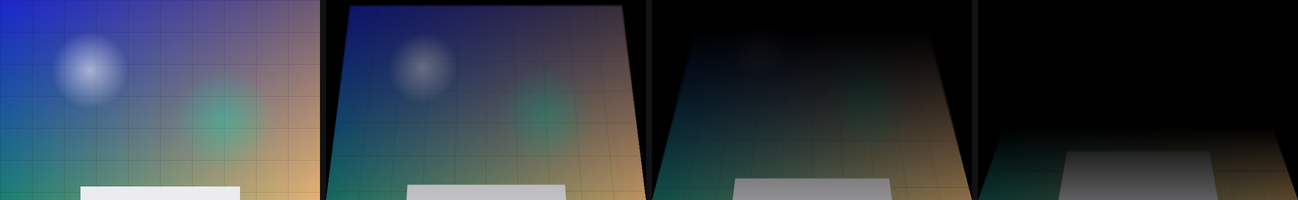
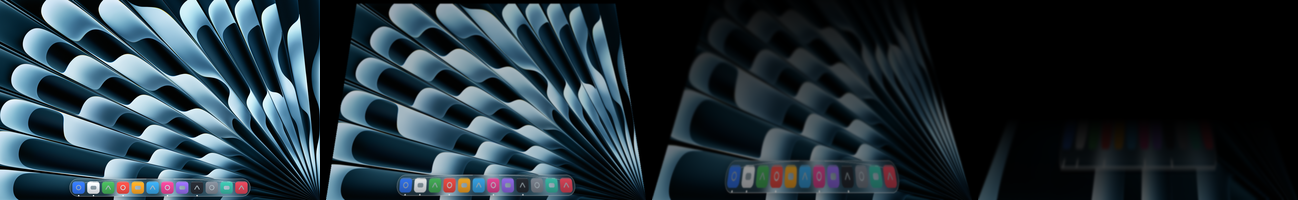
Give the blur a floor at the hinge
Darkening already held a floor of 0.35 at the hinge while the blur radius
started from zero there, so the band on the rotation axis went dark but
stayed perfectly sharp. On a 1964 px panel at 0.48 progress that band
carried 0.8 px of blur against 36 percent darkening, which is why the Dock
barely moved while the rest of the desktop frosted.

blurFloor keeps 30 percent of the maximum radius at the hinge and leaves
the far edge alone: the Dock now gets 5.7 px. Applied in the reference
renderer, the reference shader and all three ports, with the Metal and
HLSL uniform blocks reusing their existing pad slot so the layout is
unchanged.

Goldens regenerated; the fixtures are untouched because the motion model
did not move. The Metal render check scores 35.7 to 49.3 dB.

Also adds tools/make_demo.py, which rebuilds the two README images from
core/reference so they cannot drift from effect.json, and points it at a
desktop with the Dock so the change is visible.

diff --git a/macos/Sources/HingewaveCore/EffectConfig.swift b/macos/Sources/HingewaveCore/EffectConfig.swift
@@ -46,6 +46,7 @@ public struct EffectConfig: Codable, Equatable {
 
     public var eyeDistance: Double
     public var maxBlur: Double
+    public var blurFloor: Double
     public var darkenGain: Double
     public var springHz: Double
     public var stillSeconds: Double
@@ -53,10 +54,12 @@ public struct EffectConfig: Codable, Equatable {
     public var laptop: Laptop
     public var phone: Phone
 
-    public init(eyeDistance: Double, maxBlur: Double, darkenGain: Double, springHz: Double,
-                stillSeconds: Double, clearSeconds: Double, laptop: Laptop, phone: Phone) {
+    public init(eyeDistance: Double, maxBlur: Double, blurFloor: Double, darkenGain: Double,
+                springHz: Double, stillSeconds: Double, clearSeconds: Double,
+                laptop: Laptop, phone: Phone) {
         self.eyeDistance = eyeDistance
         self.maxBlur = maxBlur
+        self.blurFloor = blurFloor
         self.darkenGain = darkenGain
         self.springHz = springHz
         self.stillSeconds = stillSeconds
@@ -69,6 +72,7 @@ public struct EffectConfig: Codable, Equatable {
     public static let defaults = EffectConfig(
         eyeDistance: 2.0,
         maxBlur: 0.036,
+        blurFloor: 0.3,
         darkenGain: 2.0,
         springHz: 6.0,
         stillSeconds: 2.0,

diff --git a/android/app/src/main/java/com/antlib/hingewave/render/FoldShader.kt b/android/app/src/main/java/com/antlib/hingewave/render/FoldShader.kt
@@ -27,6 +27,7 @@ object FoldShader {
         uniform float progress;       // 0 open, 1 folded
         uniform float eyeDistance;    // panel heights
         uniform float maxBlurPx;      // maxBlur * panel extent perpendicular to the hinge
+        uniform float blurFloor;      // blur kept at the hinge, 0..1
         uniform float darkenGain;
         uniform int hingeEdge;        // 0 bottom, 1 left, 2 right, 3 top
         uniform float2 region;        // [start, end] of the folding band along the hinge axis, in 0..1 of size
@@ -78,7 +79,7 @@ object FoldShader {
             else                     { m = float2(v2, uf); }
             float2 p = m * picSize;
 
-            float r = maxBlurPx * progress * ub;
+            float r = maxBlurPx * progress * (blurFloor + (1.0 - blurFloor) * ub);
             float lod = log2(max(r * 1.4, 1.0));
             float o = r * 0.6;
             half4 c = samplePyramid(p, lod) * 0.4;

diff --git a/macos/Sources/Hingewave/FoldShader.swift b/macos/Sources/Hingewave/FoldShader.swift
@@ -9,7 +9,7 @@ struct FoldUniforms {
     var eyeDistance: Float   // panel heights
     var maxBlurPx: Float     // effect maxBlur * panel height in pixels
     var darkenGain: Float
-    var pad0: Float = 0
+    var blurFloor: Float   // effect blurFloor, blur kept at the hinge
     var texSize: SIMD2<Float>
 }
 
@@ -26,7 +26,7 @@ enum FoldShader {
         float eyeDistance;
         float maxBlurPx;
         float darkenGain;
-        float pad0;
+        float blurFloor;
         float2 texSize;
     };
 
@@ -62,7 +62,7 @@ enum FoldShader {
         }
 
         // Section 2.3: blur radius grows from the hinge outward. Mip chain plus a small disc.
-        float r = U.maxBlurPx * U.progress * u;
+        float r = U.maxBlurPx * U.progress * (U.blurFloor + (1.0 - U.blurFloor) * u);
         float lod = log2(max(r * 1.4, 1.0));
         float2 p = float2(v2, 1.0 - u2);
         float2 o = (r * 0.6) / U.texSize;

diff --git a/android/app/src/main/java/com/antlib/hingewave/core/EffectConfig.kt b/android/app/src/main/java/com/antlib/hingewave/core/EffectConfig.kt
@@ -23,6 +23,7 @@ data class SplashConfig(
 data class EffectConfig(
     val eyeDistance: Double,
     val maxBlur: Double,
+    val blurFloor: Double,
     val darkenGain: Double,
     val springHz: Double,
     val stillSeconds: Double,
@@ -36,6 +37,7 @@ data class EffectConfig(
         val DEFAULTS = EffectConfig(
             eyeDistance = 2.0,
             maxBlur = 0.036,
+            blurFloor = 0.3,
             darkenGain = 2.0,
             springHz = 6.0,
             stillSeconds = 2.0,
@@ -66,6 +68,7 @@ data class EffectConfig(
             return EffectConfig(
                 eyeDistance = o.getDouble("eyeDistance"),
                 maxBlur = o.getDouble("maxBlur"),
+                blurFloor = o.getDouble("blurFloor"),
                 darkenGain = o.getDouble("darkenGain"),
                 springHz = o.getDouble("springHz"),
                 stillSeconds = o.getDouble("stillSeconds"),

diff --git a/android/app/src/main/java/com/antlib/hingewave/render/FoldPainter.kt b/android/app/src/main/java/com/antlib/hingewave/render/FoldPainter.kt
@@ -52,6 +52,7 @@ class FoldPainter(picture: Bitmap, private val config: EffectConfig = EffectConf
         shader.setFloatUniform("tilt", Math.toRadians(tiltDegrees).toFloat())
         shader.setFloatUniform("progress", progress.toFloat())
         shader.setFloatUniform("maxBlurPx", (config.maxBlur * perpendicularPx).toFloat())
+        shader.setFloatUniform("blurFloor", config.blurFloor.toFloat())
         shader.setIntUniform("hingeEdge", geometry.hingeEdge)
         shader.setFloatUniform("region", geometry.regionStart, geometry.regionEnd)
         canvas.drawRect(0f, 0f, width.toFloat(), height.toFloat(), paint)

diff --git a/macos/Sources/Hingewave/FoldRenderer.swift b/macos/Sources/Hingewave/FoldRenderer.swift
@@ -79,6 +79,7 @@ final class FoldRenderer {
             eyeDistance: Float(config.eyeDistance),
             maxBlurPx: Float(config.maxBlur * Double(target.height)),
             darkenGain: Float(config.darkenGain),
+            blurFloor: Float(config.blurFloor),
             texSize: SIMD2<Float>(Float(source.width), Float(source.height))
         )
         enc.setRenderPipelineState(pipeline)

diff --git a/tools/make_demo.py b/tools/make_demo.py
@@ -1,0 +1,130 @@
+#!/usr/bin/env python3
+"""Render the README demo assets through the reference implementation.
+
+    python3 tools/make_demo.py --desktop path/to/desktop.png
+
+Writes docs/assets/fold-demo.gif (a close and reopen at 12.5 frames a second)
+and docs/assets/fold-frames.png (the same desktop at four lid angles). The
+desktop picture is supplied on the command line rather than committed, so the
+repository carries no wallpaper artwork.
+
+Both assets come from core/reference, so they always show the effect as
+core/effect.json currently defines it. Regenerate them after changing it.
+"""
+from __future__ import annotations
+
+import argparse
+import sys
+from pathlib import Path
+
+import numpy as np
+from PIL import Image
+
+ROOT = Path(__file__).resolve().parent.parent
+sys.path.insert(0, str(ROOT / "core" / "reference"))
+
+from hingewave_ref.config import load_config  # noqa: E402
+from hingewave_ref.motion import LaptopMotionModel  # noqa: E402
+from hingewave_ref.render import from_uint8, render, to_uint8  # noqa: E402
+
+GIF_SIZE = (520, 325)
+PANEL_SIZE = (320, 200)
+PANEL_GAP = 6
+STRIP_ANGLES = [105.0, 82.0, 58.0, 35.0]
+REST_ANGLE = 105.0
+STEP = 0.02          # seconds between model updates
+FRAME_EVERY = 4      # every fourth update becomes a GIF frame, so 80 ms
+FIRST_HOLD_MS = 660
+LAST_HOLD_MS = 240
+
+
+def load_desktop(path: Path, size: tuple[int, int]) -> np.ndarray:
+    img = Image.open(path).convert("RGB")
+    target = size[0] / size[1]
+    w, h = img.size
+    if w / h > target:                      # too wide, trim the sides
+        new_w = int(round(h * target))
+        img = img.crop(((w - new_w) // 2, 0, (w - new_w) // 2 + new_w, h))
+    else:                                   # too tall, trim the top
+        new_h = int(round(w / target))
+        img = img.crop((0, h - new_h, w, h))
+    return from_uint8(np.asarray(img.resize(size, Image.LANCZOS)))
+
+
+def angle_track() -> list[float]:
+    """Rest at 105, close to 10 over 1.1 s, pause, reopen, rest again."""
+    track: list[float] = []
+
+    def hold(seconds: float, angle: float) -> None:
+        track.extend([angle] * int(round(seconds / STEP)))
+
+    def sweep(seconds: float, start: float, end: float) -> None:
+        n = int(round(seconds / STEP))
+        track.extend(start + (end - start) * (i + 1) / n for i in range(n))
+
+    hold(0.4, REST_ANGLE)
+    sweep(1.1, REST_ANGLE, 10.0)
+    hold(0.24, 10.0)
+    sweep(1.0, 10.0, REST_ANGLE)
+    hold(0.4, REST_ANGLE)
+    return track
+
+
+def make_gif(desktop: np.ndarray, out: Path) -> None:
+    cfg = load_config()
+    model = LaptopMotionModel(cfg)
+    frames: list[Image.Image] = []
+    for i, angle in enumerate(angle_track()):
+        out_state = model.feed(i * STEP, angle)
+        if out_state.state == "armed":
+            model.capture_ready(i * STEP)
+        if i % FRAME_EVERY:
+            continue
+        pic = render(desktop, out_state.tilt, out_state.progress, cfg)
+        frames.append(Image.fromarray(to_uint8(pic)))
+
+    durations = [80] * len(frames)
+    durations[0] = FIRST_HOLD_MS
+    durations[-1] = LAST_HOLD_MS
+    frames[0].save(
+        out,
+        save_all=True,
+        append_images=frames[1:],
+        duration=durations,
+        loop=0,
+        optimize=True,
+    )
+    print(f"wrote {out} ({len(frames)} frames)")
+
+
+def make_strip(desktop_full: np.ndarray, out: Path) -> None:
+    cfg = load_config()
+    panels = []
+    for angle in STRIP_ANGLES:
+        tilt = max(0.0, REST_ANGLE - angle)
+        span = max(REST_ANGLE - cfg.laptop.end_angle, 1e-6)
+        x = min(max(tilt / span, 0.0), 1.0)
+        progress = x * x * (3.0 - 2.0 * x)
+        pic = render(desktop_full, tilt, progress, cfg)
+        panels.append(Image.fromarray(to_uint8(pic)).resize(PANEL_SIZE, Image.LANCZOS))
+
+    w = PANEL_SIZE[0] * len(panels) + PANEL_GAP * (len(panels) - 1)
+    strip = Image.new("RGB", (w, PANEL_SIZE[1]), (0, 0, 0))
+    for i, panel in enumerate(panels):
+        strip.paste(panel, (i * (PANEL_SIZE[0] + PANEL_GAP), 0))
+    strip.save(out)
+    print(f"wrote {out} (angles {', '.join(f'{a:g}' for a in STRIP_ANGLES)} degrees)")
+
+
+def main() -> None:
+    ap = argparse.ArgumentParser()
+    ap.add_argument("--desktop", required=True, type=Path, help="desktop picture to fold")
+    ap.add_argument("--out", type=Path, default=ROOT / "docs" / "assets")
+    args = ap.parse_args()
+
+    make_gif(load_desktop(args.desktop, GIF_SIZE), args.out / "fold-demo.gif")
+    make_strip(load_desktop(args.desktop, (960, 600)), args.out / "fold-frames.png")
+
+
+if __name__ == "__main__":
+    main()

diff --git a/windows/Hingewave.Core/EffectConfig.cs b/windows/Hingewave.Core/EffectConfig.cs
@@ -7,6 +7,7 @@ namespace Hingewave.Core;
 public sealed record EffectConfig(
     [property: JsonPropertyName("eyeDistance")] double EyeDistance,
     [property: JsonPropertyName("maxBlur")] double MaxBlur,
+    [property: JsonPropertyName("blurFloor")] double BlurFloor,
     [property: JsonPropertyName("darkenGain")] double DarkenGain,
     [property: JsonPropertyName("springHz")] double SpringHz,
     [property: JsonPropertyName("stillSeconds")] double StillSeconds,
@@ -18,6 +19,7 @@ public sealed record EffectConfig(
     public static readonly EffectConfig Defaults = new(
         EyeDistance: 2.0,
         MaxBlur: 0.036,
+        BlurFloor: 0.3,
         DarkenGain: 2.0,
         SpringHz: 6.0,
         StillSeconds: 2.0,

diff --git a/windows/Hingewave.App/Render/FoldRenderer.cs b/windows/Hingewave.App/Render/FoldRenderer.cs
@@ -17,7 +17,7 @@ internal struct FoldUniforms
     public float EyeDistance;
     public float MaxBlurPx;
     public float DarkenGain;
-    public float Pad0;
+    public float BlurFloor;
     public float TexWidth;
     public float TexHeight;
 }
@@ -94,6 +94,7 @@ public sealed class FoldRenderer : IDisposable
             EyeDistance = (float)Config.EyeDistance,
             MaxBlurPx = (float)(Config.MaxBlur * targetHeight),
             DarkenGain = (float)Config.DarkenGain,
+            BlurFloor = (float)Config.BlurFloor,
             TexWidth = desc.Width,
             TexHeight = desc.Height,
         };

diff --git a/core/reference/hingewave_ref/render.py b/core/reference/hingewave_ref/render.py
@@ -97,7 +97,9 @@ def render(img: np.ndarray, tilt_deg: float, progress: float, cfg: Config) -> np
     u, _ = panel_coords(h, w)
     warped = perspective_warp(img, tilt_deg, cfg)
     max_r = cfg.max_blur * h
-    radius = max_r * progress * u
+    # Blur has a floor at the hinge so the panel frosts as one, rather than going
+    # dark while staying razor sharp on the rotation axis (docs/design.md 2.3).
+    radius = max_r * progress * (cfg.blur_floor + (1.0 - cfg.blur_floor) * u)
     blurred = variable_blur(warped, radius, max_r)
     return np.clip(darken(blurred, progress, u, cfg.darken_gain), 0.0, 1.0)
 

diff --git a/core/reference/hingewave_ref/config.py b/core/reference/hingewave_ref/config.py
@@ -54,6 +54,7 @@ class SplashConfig:
 class Config:
     eye_distance: float
     max_blur: float
+    blur_floor: float
     darken_gain: float
     spring_hz: float
     still_seconds: float
@@ -70,6 +71,7 @@ def config_from_dict(d: dict) -> Config:
     return Config(
         eye_distance=float(d["eyeDistance"]),
         max_blur=float(d["maxBlur"]),
+        blur_floor=float(d["blurFloor"]),
         darken_gain=float(d["darkenGain"]),
         spring_hz=float(d["springHz"]),
         still_seconds=float(d["stillSeconds"]),

diff --git a/docs/design.md b/docs/design.md
@@ -38,7 +38,8 @@ Three operations, applied in one fragment shader:
    to that resting plane, so the picture keystones: pinned at the hinge, narrowing
    away from it. The picture appears to stay still while the glass moves over it.
 2. Progressive blur. Blur radius grows linearly with distance from the hinge and
-   with fold progress. Zero at the hinge, maximum at the far edge.
+   with fold progress. A fraction of the maximum at the hinge, the full maximum at
+   the far edge.
 3. Darkening. A gradient from the hinge outward, driven by progress at twice the
    strength of the blur, so the panel reads as going dark before it is fully closed.
 
@@ -81,11 +82,20 @@ Pixels whose `(u', v')` fall outside `[0, 1]` are black. There is no head tracki
 Radius in pixels at display pixel `(u, v)`:
 
 ```
-r = maxBlur * H * progress * u
+r = maxBlur * H * progress * (blurFloor + (1 - blurFloor) * u)
 ```
 
 where `H` is the panel extent perpendicular to the hinge in pixels and `maxBlur` is a
-fraction of that extent. The reference kernel is Gaussian with standard deviation
+fraction of that extent.
+
+`blurFloor` is the share of the maximum radius that survives at the hinge itself. It
+exists because blur and darkening are not symmetric: darkening has a floor of 0.35 at
+the hinge (section 2.4) while a pure `progress * u` blur has a floor of zero, so the
+band nearest the rotation axis went dark while staying perfectly sharp. On a 1964 px
+panel at 0.48 progress that band carried 0.8 px of blur against 36 percent darkening.
+A floor of 0.30 raises it to 5.7 px, which is what a macOS Dock or a row of Android
+icons needs before the frosting reads as one piece of glass. The far edge is
+unchanged. The reference kernel is Gaussian with standard deviation
 `r / 2`, truncated at two standard deviations. Ports may implement it with a mip
 chain or blur pyramid sampled at `log2(r)`; the golden-image tolerance in section 4
 allows for kernel differences.
@@ -107,6 +117,7 @@ starting point, not scripture.
 |---|---|---|
 | `eyeDistance` | 2.0 | Eye distance in panel heights |
 | `maxBlur` | 0.036 | Blur radius at the far edge as a fraction of panel height (72 px on a 1964 px panel) |
+| `blurFloor` | 0.30 | Share of that radius still applied at the hinge, so the panel frosts as one |
 | `darkenGain` | 2.0 | Darkening strength relative to progress |
 | `springHz` | 6.0 | Natural frequency of the angle smoother |
 | `stillSeconds` | 2.0 | Stillness before the picture clears back |
